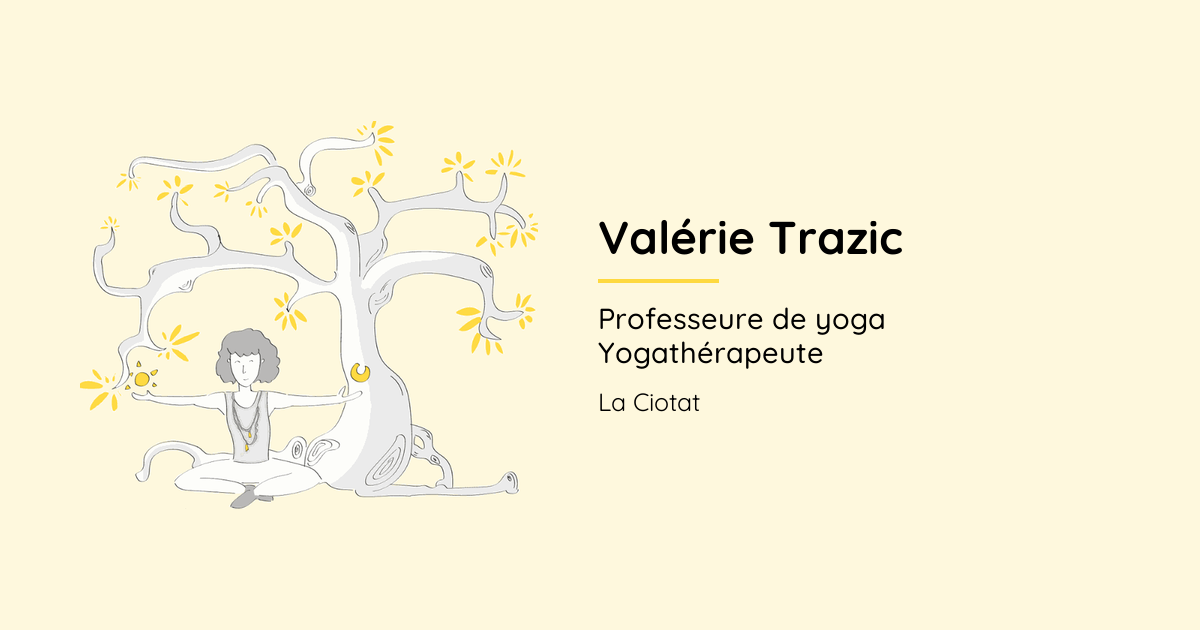
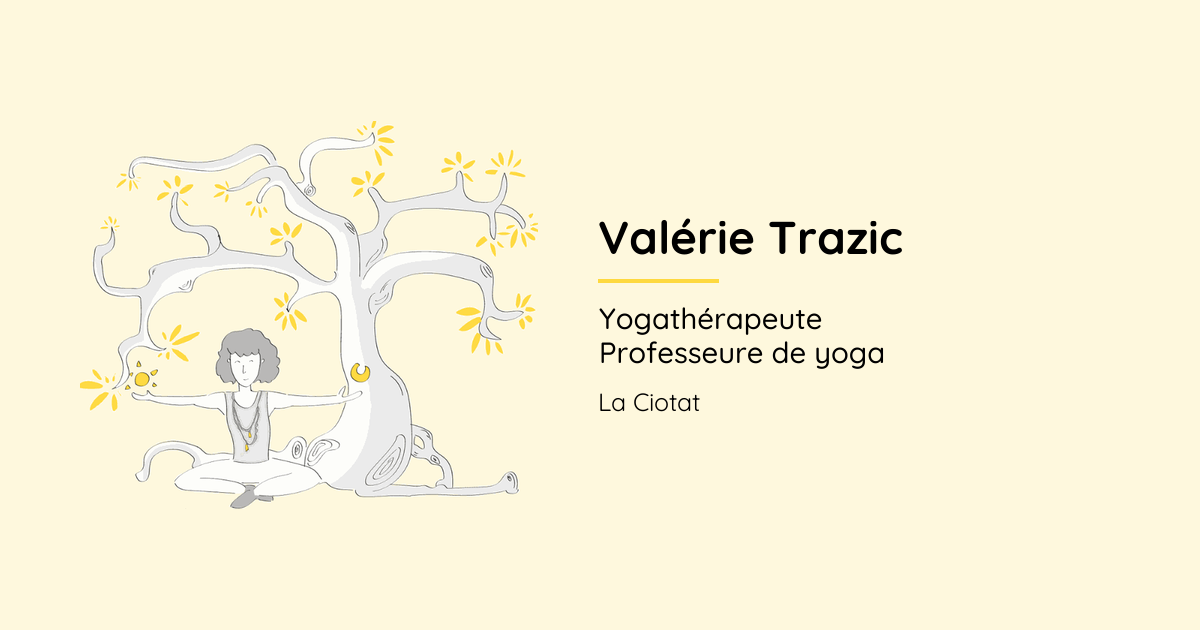
La yogathérapie passe en premier partout
« Yogathérapeute » avant « Professeure de yoga » : pied de page des
8 pages, bloc Mon parcours, titres, descriptions, aperçus de partage,
H1 de l'accueil, mentions légales et image de partage (seules les deux
lignes du métier sont réécrites, même police et même place).
Titre de la page À propos raccourci à 53 caractères.

Claude-Session: https://claude.ai/code/session_013kvBXqq6ui2868raBNJqRC

Changed region(s): [[0.4933, 0.4825, 0.74, 0.6032]]

diff --git a/index.html b/index.html
@@ -4,8 +4,8 @@
   <meta charset="UTF-8">
   <meta name="viewport" content="width=device-width, initial-scale=1.0">
 
-  <title>Valérie Trazic — Professeure de yoga et yogathérapeute à La Ciotat</title>
-  <meta name="description" content="Cours de yoga et accompagnement en yogathérapie à La Ciotat. Une approche qui envisage l'être dans sa globalité : le corps, le mental, l'émotionnel.">
+  <title>Valérie Trazic — Yogathérapeute et professeure de yoga à La Ciotat</title>
+  <meta name="description" content="Accompagnement en yogathérapie et cours de yoga à La Ciotat. Une approche qui envisage l'être dans sa globalité : le corps, le mental, l'émotionnel.">
 
   <!-- Adresse officielle de la page pour Google. L'accueil répond aussi à
        /index.html : cette ligne désigne la forme courte « / » comme la seule
@@ -55,12 +55,12 @@
   <meta property="og:site_name" content="Valérie Trazic">
   <meta property="og:locale" content="fr_FR">
   <meta property="og:url" content="https://trazicvalerie.fr/">
-  <meta property="og:title" content="Professeure de yoga et yogathérapeute à La Ciotat">
-  <meta property="og:description" content="Cours de yoga et accompagnement en yogathérapie à La Ciotat. Une approche qui envisage l'être dans sa globalité : le corps, le mental, l'émotionnel.">
+  <meta property="og:title" content="Yogathérapeute et professeure de yoga à La Ciotat">
+  <meta property="og:description" content="Accompagnement en yogathérapie et cours de yoga à La Ciotat. Une approche qui envisage l'être dans sa globalité : le corps, le mental, l'émotionnel.">
   <meta property="og:image" content="https://trazicvalerie.fr/images/partage.png">
   <meta property="og:image:width" content="1200">
   <meta property="og:image:height" content="630">
-  <meta property="og:image:alt" content="Valérie Trazic, professeure de yoga et yogathérapeute à La Ciotat">
+  <meta property="og:image:alt" content="Valérie Trazic, yogathérapeute et professeure de yoga à La Ciotat">
 
   <!-- Sans cette ligne, certaines messageries se contentent d'une vignette. -->
   <meta name="twitter:card" content="summary_large_image">
@@ -181,7 +181,7 @@
         <div class="duo__texte trait-feuille">
           <img class="trait-feuille__feuille" src="images/feuille-trait.png" alt="" aria-hidden="true" width="160" height="138">
 
-          <h1 class="lecteur-ecran-seulement">Valérie Trazic, professeure de yoga et yogathérapeute à La Ciotat</h1>
+          <h1 class="lecteur-ecran-seulement">Valérie Trazic, yogathérapeute et professeure de yoga à La Ciotat</h1>
 
           <p class="hero__citation">
             Le corps est notre première maison,<br>
@@ -346,8 +346,8 @@
             <p class="parcours__nom">Valérie Trazic</p>
             <span class="parcours__filet" aria-hidden="true"></span>
             <p class="parcours__role">
-              Professeure de Yoga<br>
-              Yogathérapeute
+              Yogathérapeute<br>
+              Professeure de Yoga
             </p>
           </div>
 
@@ -405,8 +405,8 @@
 
       <p class="pied__nom">Valérie Trazic</p>
       <p class="pied__role">
-        Professeure de Yoga<br>
-        Yogathérapeute
+        Yogathérapeute<br>
+        Professeure de Yoga
       </p>
 
       <p class="pied__credit">

diff --git a/a-propos.html b/a-propos.html
@@ -4,7 +4,7 @@
   <meta charset="UTF-8">
   <meta name="viewport" content="width=device-width, initial-scale=1.0">
 
-  <title>À propos — Valérie Trazic, professeure de yoga et yogathérapeute à La Ciotat</title>
+  <title>À propos — Valérie Trazic, yogathérapeute à La Ciotat</title>
   <meta name="description" content="Valérie Trazic enseigne le yoga depuis 2015 à La Ciotat. Formée à l'école Ananda de Marseille et à l'Institut de Yogathérapie du docteur Lionel Coudron.">
 
   <!-- Adresse officielle de la page pour Google. -->
@@ -30,7 +30,7 @@
   <meta property="og:image" content="https://trazicvalerie.fr/images/partage.png">
   <meta property="og:image:width" content="1200">
   <meta property="og:image:height" content="630">
-  <meta property="og:image:alt" content="Valérie Trazic, professeure de yoga et yogathérapeute à La Ciotat">
+  <meta property="og:image:alt" content="Valérie Trazic, yogathérapeute et professeure de yoga à La Ciotat">
 
   <!-- Sans cette ligne, certaines messageries se contentent d'une vignette. -->
   <meta name="twitter:card" content="summary_large_image">
@@ -274,8 +274,8 @@
 
       <p class="pied__nom">Valérie Trazic</p>
       <p class="pied__role">
-        Professeure de Yoga<br>
-        Yogathérapeute
+        Yogathérapeute<br>
+        Professeure de Yoga
       </p>
 
       <p class="pied__credit">

diff --git a/mentions-legales.html b/mentions-legales.html
@@ -5,7 +5,7 @@
   <meta name="viewport" content="width=device-width, initial-scale=1.0">
 
   <title>Mentions légales — Valérie Trazic</title>
-  <meta name="description" content="Mentions légales du site de Valérie Trazic, professeure de yoga et yogathérapeute à La Ciotat.">
+  <meta name="description" content="Mentions légales du site de Valérie Trazic, yogathérapeute et professeure de yoga à La Ciotat.">
 
   <!-- Cette page n'a pas vocation à être partagée : on demande simplement
        aux moteurs de recherche de ne pas l'indexer, tout en les laissant
@@ -103,8 +103,8 @@
 
         <h2 class="legal__titre">1. Éditrice du site</h2>
         <p>
-          Le présent site est édité par <strong>Valérie Trazic</strong>, professeure de
-          yoga et yogathérapeute.
+          Le présent site est édité par <strong>Valérie Trazic</strong>, yogathérapeute et
+          professeure de yoga.
         </p>
         <address class="legal__adresse">
           Au vent dans les branches<br>
@@ -254,8 +254,8 @@
 
       <p class="pied__nom">Valérie Trazic</p>
       <p class="pied__role">
-        Professeure de Yoga<br>
-        Yogathérapeute
+        Yogathérapeute<br>
+        Professeure de Yoga
       </p>
 
       <p class="pied__credit">

diff --git a/cours-adultes.html b/cours-adultes.html
@@ -30,7 +30,7 @@
   <meta property="og:image" content="https://trazicvalerie.fr/images/partage.png">
   <meta property="og:image:width" content="1200">
   <meta property="og:image:height" content="630">
-  <meta property="og:image:alt" content="Valérie Trazic, professeure de yoga et yogathérapeute à La Ciotat">
+  <meta property="og:image:alt" content="Valérie Trazic, yogathérapeute et professeure de yoga à La Ciotat">
 
   <!-- Sans cette ligne, certaines messageries se contentent d'une vignette. -->
   <meta name="twitter:card" content="summary_large_image">
@@ -370,8 +370,8 @@
 
       <p class="pied__nom">Valérie Trazic</p>
       <p class="pied__role">
-        Professeure de Yoga<br>
-        Yogathérapeute
+        Yogathérapeute<br>
+        Professeure de Yoga
       </p>
 
       <p class="pied__credit">

diff --git a/cours-enfants.html b/cours-enfants.html
@@ -30,7 +30,7 @@
   <meta property="og:image" content="https://trazicvalerie.fr/images/partage.png">
   <meta property="og:image:width" content="1200">
   <meta property="og:image:height" content="630">
-  <meta property="og:image:alt" content="Valérie Trazic, professeure de yoga et yogathérapeute à La Ciotat">
+  <meta property="og:image:alt" content="Valérie Trazic, yogathérapeute et professeure de yoga à La Ciotat">
 
   <!-- Sans cette ligne, certaines messageries se contentent d'une vignette. -->
   <meta name="twitter:card" content="summary_large_image">
@@ -272,8 +272,8 @@
 
       <p class="pied__nom">Valérie Trazic</p>
       <p class="pied__role">
-        Professeure de Yoga<br>
-        Yogathérapeute
+        Yogathérapeute<br>
+        Professeure de Yoga
       </p>
 
       <p class="pied__credit">

diff --git a/cours-parents-enfants.html b/cours-parents-enfants.html
@@ -30,7 +30,7 @@
   <meta property="og:image" content="https://trazicvalerie.fr/images/partage.png">
   <meta property="og:image:width" content="1200">
   <meta property="og:image:height" content="630">
-  <meta property="og:image:alt" content="Valérie Trazic, professeure de yoga et yogathérapeute à La Ciotat">
+  <meta property="og:image:alt" content="Valérie Trazic, yogathérapeute et professeure de yoga à La Ciotat">
 
   <!-- Sans cette ligne, certaines messageries se contentent d'une vignette. -->
   <meta name="twitter:card" content="summary_large_image">
@@ -261,8 +261,8 @@
 
       <p class="pied__nom">Valérie Trazic</p>
       <p class="pied__role">
-        Professeure de Yoga<br>
-        Yogathérapeute
+        Yogathérapeute<br>
+        Professeure de Yoga
       </p>
 
       <p class="pied__credit">

diff --git a/yoga-adapte-sante.html b/yoga-adapte-sante.html
@@ -30,7 +30,7 @@
   <meta property="og:image" content="https://trazicvalerie.fr/images/partage.png">
   <meta property="og:image:width" content="1200">
   <meta property="og:image:height" content="630">
-  <meta property="og:image:alt" content="Valérie Trazic, professeure de yoga et yogathérapeute à La Ciotat">
+  <meta property="og:image:alt" content="Valérie Trazic, yogathérapeute et professeure de yoga à La Ciotat">
 
   <!-- Sans cette ligne, certaines messageries se contentent d'une vignette. -->
   <meta name="twitter:card" content="summary_large_image">
@@ -285,8 +285,8 @@
 
       <p class="pied__nom">Valérie Trazic</p>
       <p class="pied__role">
-        Professeure de Yoga<br>
-        Yogathérapeute
+        Yogathérapeute<br>
+        Professeure de Yoga
       </p>
 
       <p class="pied__credit">

diff --git a/yogatherapie.html b/yogatherapie.html
@@ -30,7 +30,7 @@
   <meta property="og:image" content="https://trazicvalerie.fr/images/partage.png">
   <meta property="og:image:width" content="1200">
   <meta property="og:image:height" content="630">
-  <meta property="og:image:alt" content="Valérie Trazic, professeure de yoga et yogathérapeute à La Ciotat">
+  <meta property="og:image:alt" content="Valérie Trazic, yogathérapeute et professeure de yoga à La Ciotat">
 
   <!-- Sans cette ligne, certaines messageries se contentent d'une vignette. -->
   <meta name="twitter:card" content="summary_large_image">
@@ -527,8 +527,8 @@
 
       <p class="pied__nom">Valérie Trazic</p>
       <p class="pied__role">
-        Professeure de Yoga<br>
-        Yogathérapeute
+        Yogathérapeute<br>
+        Professeure de Yoga
       </p>
 
       <p class="pied__credit">
